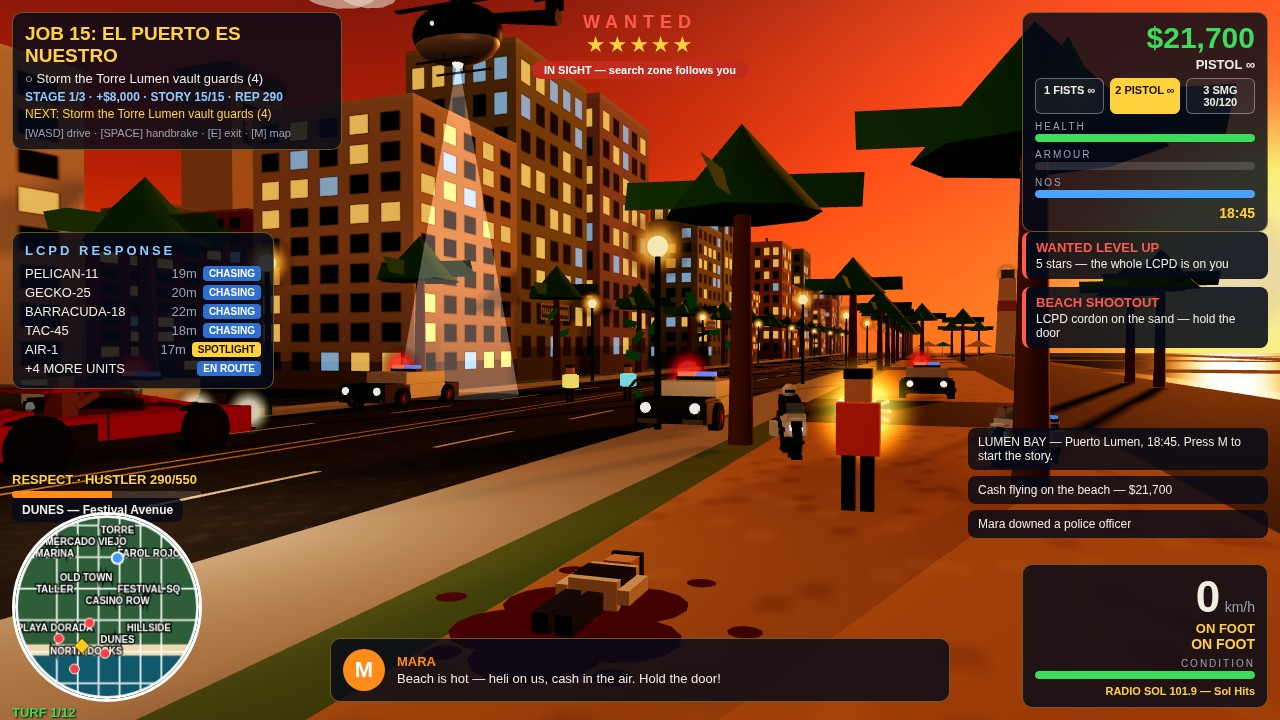
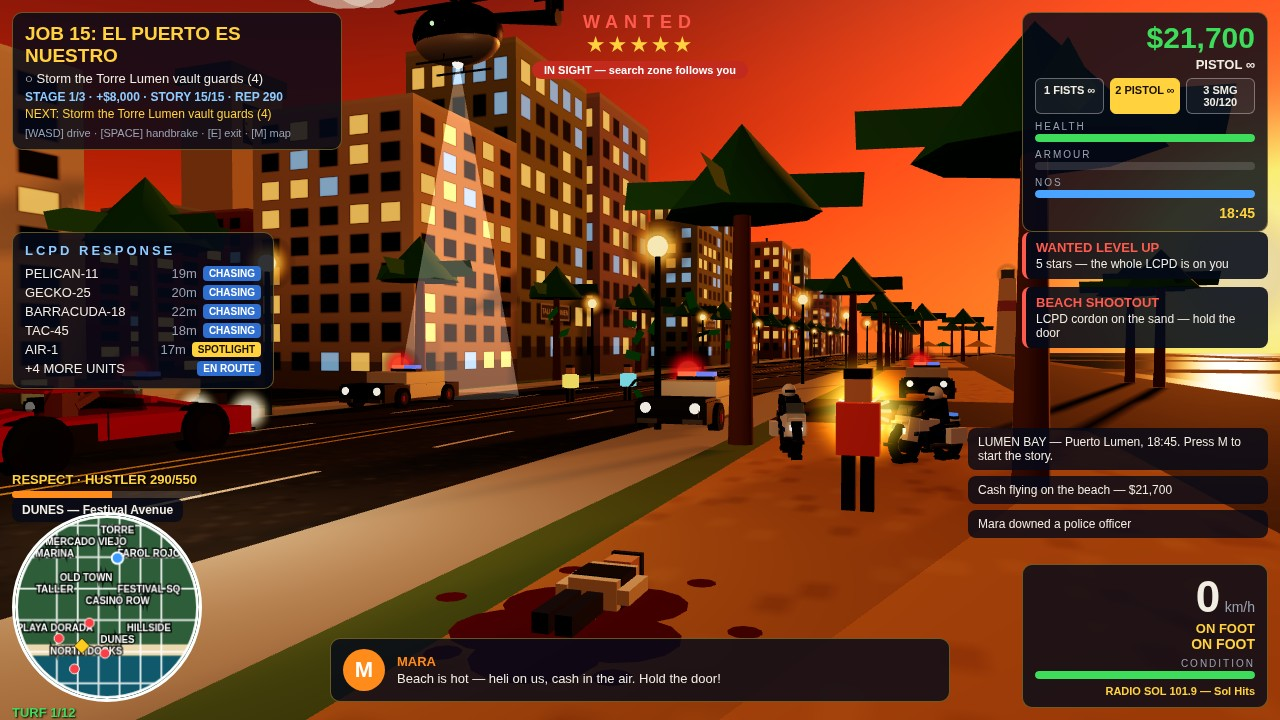
Lumen Bay shot 2 fix r30: second police motorcycle into open sand right of Mara
Move the second bike from (106, 232) to (106, 230) so it reads as its
own shape with its rider, clear of the toast panels and palm trunks.
No other shot-2 element moved; shots 1, 3 and 4 byte-identical.

Changed region(s): [[0.6875, 0.5194, 0.8438, 0.6417]]

diff --git a/game/src/shots.js b/game/src/shots.js
@@ -326,13 +326,16 @@ function stageShot2(game) {
   // ahead of her and one close on the sand edge beside her, the far
   // cruiser on the right as before, and two motorcycles flanking her
   // near — a ring the viewer can read at a glance. No unit covers Mara,
-  // the body on the ground, or the two pedestrians on the road.
+  // the body on the ground, or the two pedestrians on the road. The
+  // second motorcycle sits in open sand to the right of Mara, clear of
+  // the toast panels and any palm trunk, so it reads as its own shape
+  // with its rider.
   place(game, makeCruiser(game.textures), 106, 206, WEST);
   place(game, makeCruiser(game.textures), 116, 209, WEST);
   place(game, makeCruiser(game.textures), 112, 223, WEST);
   place(game, makeCruiser(game.textures), 130, 230, WEST);
   place(game, makePoliceBike(), 106, 227, -1.25);
-  place(game, makePoliceBike(), 106, 232, -2.36);
+  place(game, makePoliceBike(), 106, 230, -2.36);
 
   // Hero Comet at the left edge as a foreground anchor, NOS flames off.
   const hero = game.heroCar;
